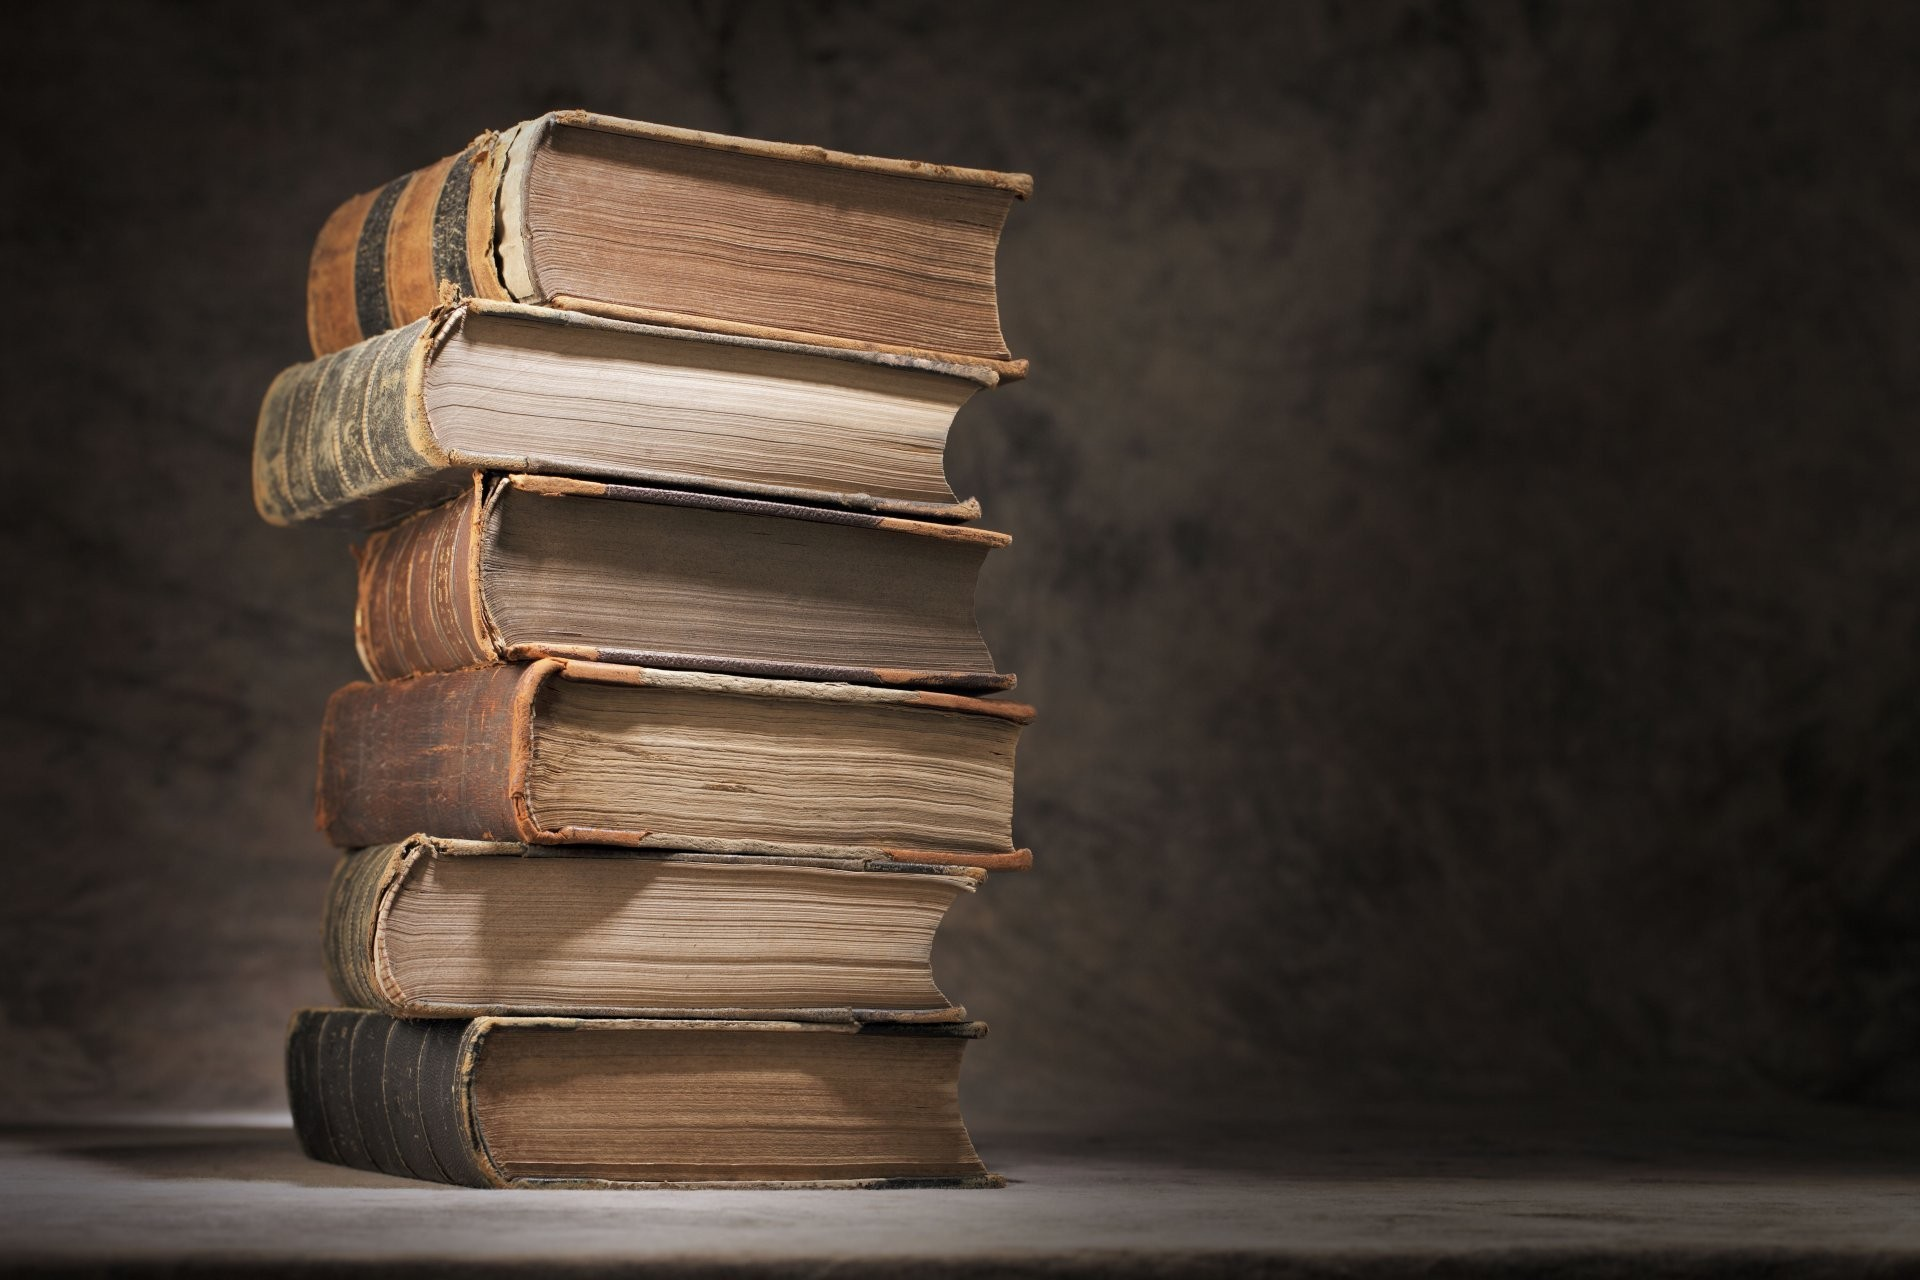
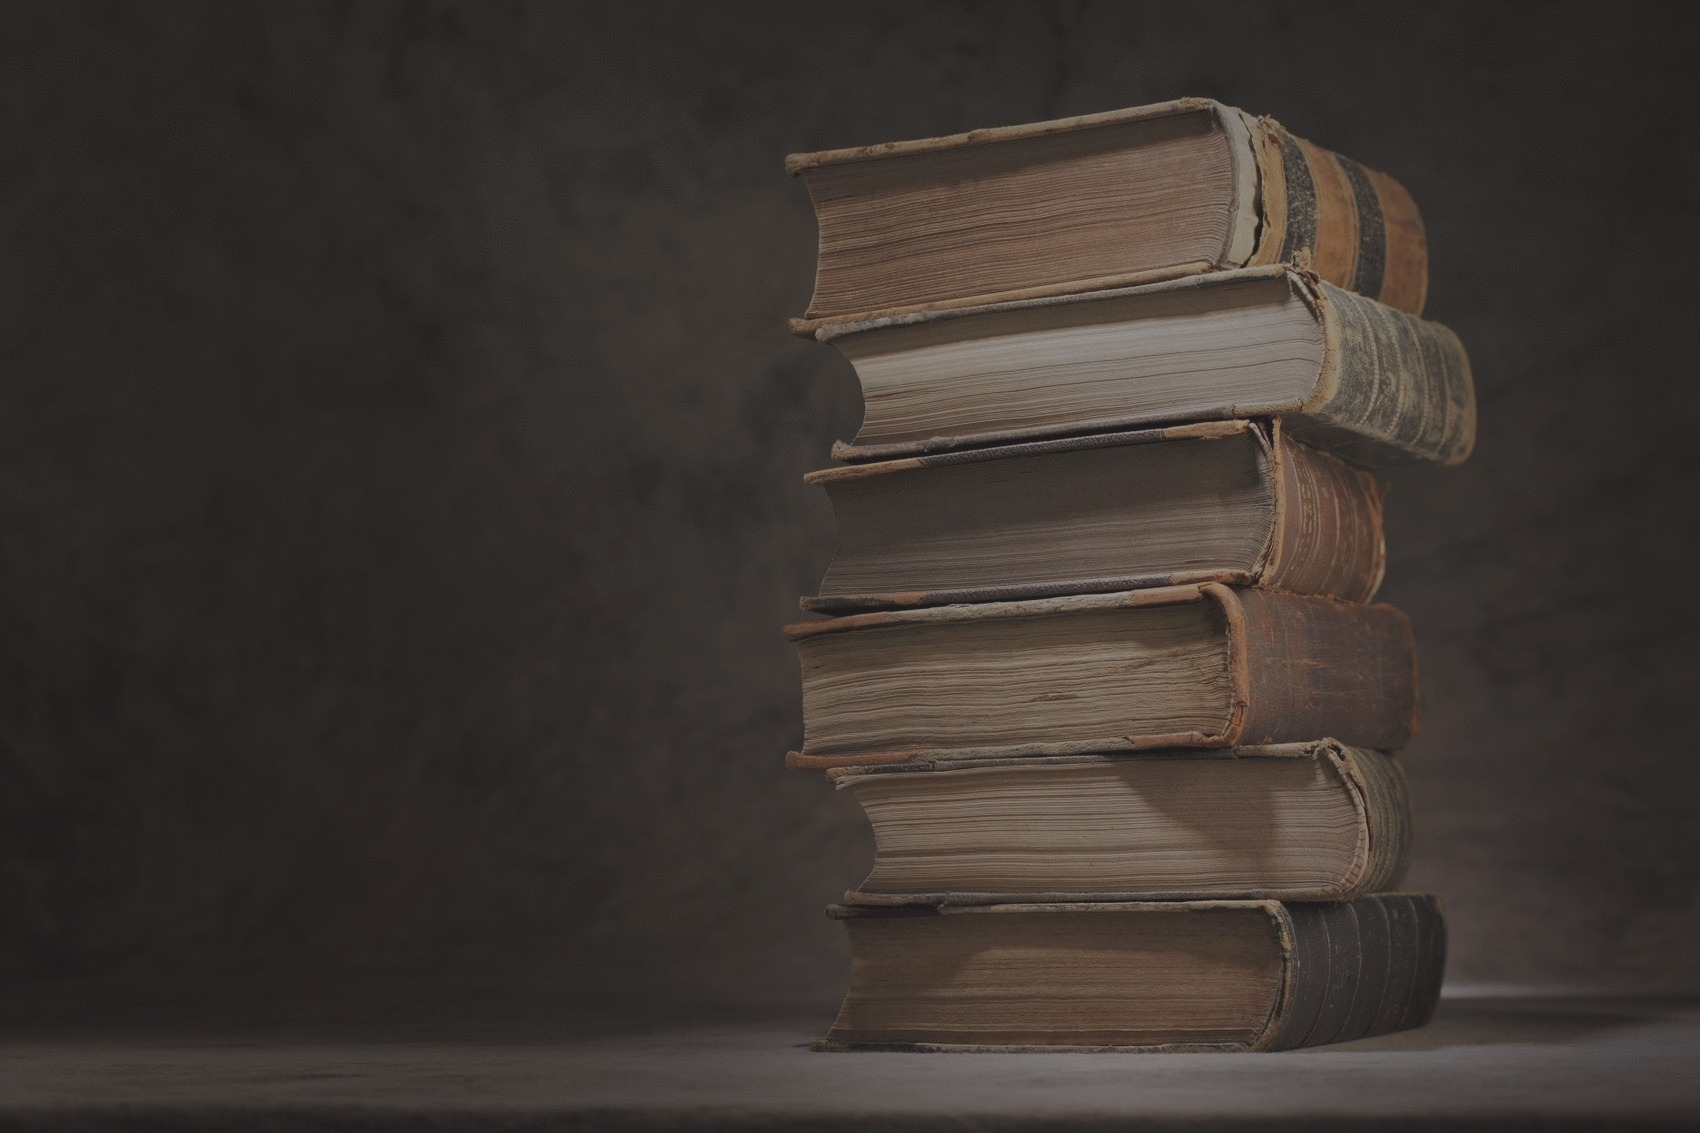
Sebo

diff --git a/agatae/src/components/Navbar/RegisterPage.jsx b/agatae/src/components/Navbar/RegisterPage.jsx
@@ -1,68 +1,94 @@
 import React, { Component} from 'react';
-import {FormGroup, Button} from 'reactstrap';
+import { Button} from 'reactstrap';
 import InputGroup from 'react-bootstrap/InputGroup';
-import { Form } from 'react-bootstrap/Form';
-import { FormControl, FormLabel} from 'react-bootstrap';
+import {Form} from 'react-bootstrap';
 import { Container, Row, Col } from 'reactstrap';
 import { Nav, NavItem, Dropdown, DropdownToggle, DropdownMenu, NavLink } from 'reactstrap';
 import DropdownButton from 'react-bootstrap/DropdownButton';
-import {Messages} from '../../Messages';
+import {Messages} from '../Messages';
+import logo from '../../assets/images/New Project4.png';
+import './Navbar/RegisterPage.css';
 
-class RegisterPage extends Component {
+class App extends Component {
    state = {
       messages: Messages,
     }
   render() {
     const {messages} = this.state;
     return (
-      <Container className="">
-  <Row className="justify-content-md-center">
-<Col></Col>
-  <Col><h1>{messages.CreateAccount}</h1></Col>
- <Col></Col>
+      <Container className='Reg_Page_Bg'>
+ <Row>
+ <Col md={8}></Col>
+ <Col md={4}><img src={logo} width="230" height="60" alt=""/></Col>
+ </Row>
+ <Row >
+  <Col md={8}></Col>
+  <Col md={4}><h1>{messages.CreateAccount}</h1></Col>
   </Row>
-  <Row className="justify-content-md-center">
-<h1>{messages.title}</h1>
+ 
+    <Row>
+     <Col md={8}></Col>
+<p>{messages.title}</p>
   </Row>
-  <Row className="justify-content-md-center">
-<InputGroup className="mb-4">
-    <InputGroup.Prepend>
-    </InputGroup.Prepend>
-      <InputGroup.Text id="inputGroup-sizing-default">Full Name</InputGroup.Text>
-    <FormControl aria-label="default" aria-describedby="inputGroup-sizing-default" />
-  </InputGroup>
+<Row >
+<Col md={7}></Col>
+<Col md={5}>
+<Form>
+    <Form.Group controlId="formBasicName">
+      <Form.Label>Your Name</Form.Label>
+      <Form.Control type="text" placeholder="Enter name" />
+    </Form.Group>
 
 
-  <InputGroup className="mb-4">
-    <InputGroup.Prepend>
-      <InputGroup.Text id="email-address">Email adress</InputGroup.Text>
-    </InputGroup.Prepend>
-    <FormControl aria-label="default" aria-describedby="email-address" />
-  </InputGroup>
+  <Form.Group controlId="formBasicSurname">
+      <Form.Label>Surname</Form.Label>
+      <Form.Control type="text" placeholder="Enter surname" />
+    </Form.Group>
+      <Form.Group controlId="formBasicEmail">
+      <Form.Label>Email</Form.Label>
+      <Form.Control type="email" placeholder="Enter email" />
+    </Form.Group>
+    
 
-  <InputGroup className="mb-4">
-    <InputGroup.Prepend>
-      <InputGroup.Text id="inputGroup-sizing-default">tel:</InputGroup.Text>
-    </InputGroup.Prepend>
-    <FormControl aria-label="default" aria-describedby="inputGroup-sizing-default" />
-  </InputGroup>
+  <Form.Group controlId="formBasicTel">
+    <Form.Label>Phone</Form.Label>
+    <Form.Control type="text" placeholder="Enter tel" />
+    <Form.Text className="text-muted">
+      example: +37499.....
+    </Form.Text>
+  </Form.Group>
 
-  <InputGroup className="mb-4">
-    <InputGroup.Prepend>
-      <InputGroup.Text id="create-password">Create password</InputGroup.Text>
-    </InputGroup.Prepend>
-    <FormControl aria-label="default" aria-describedby="create-password" />
-  </InputGroup>
+  <Form.Group controlId="formBasicCreatePassword">
+    <Form.Label>Create Password</Form.Label>
+    <Form.Control type="password" placeholder="Enter Password" />
+  <Form.Text className="text-muted">
+      Password most by 9 letters or more. 
+    </Form.Text>
+  </Form.Group>
 
-  <InputGroup className="mb-4">
-    <InputGroup.Prepend>
-      <InputGroup.Text id="repeat-password">Repeat password</InputGroup.Text>
-    </InputGroup.Prepend>
-    <FormControl aria-label="default" aria-describedby="repeat-password" />
-  </InputGroup>
+  <Form.Group controlId="formRepeatPassword">
+    <Form.Label>Repeat Password</Form.Label>
+    <Form.Control type="password" placeholder="" />
+  </Form.Group>
+
+  <Form.Group controlId="formBasicChecbox">
+    <Form.Check type="checkbox" label="I'm a member" />
+  </Form.Group>
+  <Form.Group controlId="formBasicChecbox">
+    <Form.Check type="checkbox" label="I'm a teacher" />
+  </Form.Group>
+
+  <div>
+  <Button variant="info" type="submit" ClassName="loginBtn" size="lg" block>
+    Create Account
+  </Button>
+  </div>
+
+</Form>
+</Col>
 </Row>
 </Container>
     );
   }
 }
-export {RegisterPage};
+export default App;

diff --git a/agatae/src/components/Navbar/RegisterPage.css b/agatae/src/components/Navbar/RegisterPage.css
@@ -1,88 +1,11 @@
-import React, { Component } from 'react';
-import {FormGroup, Input, Button} from 'reactstrap';
-import InputGroup from 'react-bootstrap/InputGroup';
-import Form from 'react-bootstrap/Form';
-import { Container, Row, Col,} from 'reactstrap';
-import { FormControl, FormLabel} from 'react-bootstrap';
-import {Messages} from '../Messages.js';
-import logo from '../../assets/images/New Project4.png';
 
-
-class Registerpage extends Component {
-	state = {
-      messages: Messages,
-    }
-  render() {
-  	 const {messages} = this.state;
-    return (
- <Container className='Reg_Page_Bg'>
- <Row className="justify-content-md-center">
- <img src={logo} width="230" height="60" alt=""/>
- </Row>
- <Row className="justify-content-md-center">
-<Col></Col>
-  <Col><h1>{messages.CreateAccount}</h1></Col>
- <Col></Col>
-  </Row>
- 
-    <Row className="justify-content-md-center">
-     <Col></Col>
-<p>{messages.title}</p>
-<Col></Col>
-  </Row>
-<Row className="justify-content-md-center">
-<Col md={2}></Col>
-<Col md={8}>
-<Form>
-		<Form.Group controlId="formBasicName">
-			<Form.Label>Your Name</Form.Label>
-			<Form.Control type="text" placeholder="Enter name" />
-		</Form.Group>
-
-
-  <Form.Group controlId="formBasicSurname">
-			<Form.Label>Surname</Form.Label>
-			<Form.Control type="text" placeholder="Enter surname" />
-		</Form.Group>
-
-  <Form.Group controlId="formBasicTel">
-    <Form.Label>Phone</Form.Label>
-    <Form.Control type="text" placeholder="Enter tel" />
-    <Form.Text className="text-muted">
-      example: +37499.....
-    </Form.Text>
-  </Form.Group>
-
-  <Form.Group controlId="formBasicCreatePassword">
-    <Form.Label>Create Password</Form.Label>
-    <Form.Control type="password" placeholder="Enter Password" />
-  <Form.Text className="text-muted">
-      Password most by 9 letters or more. 
-    </Form.Text>
-  </Form.Group>
-
-  <Form.Group controlId="formRepeatPassword">
-    <Form.Label>Repeat Password</Form.Label>
-    <Form.Control type="password" placeholder="" />
-  </Form.Group>
-
-  <Form.Group controlId="formBasicChecbox">
-    <Form.Check type="checkbox" label="Remember me" />
-  </Form.Group>
-
-  <div>
-  <Button variant="info" type="submit" ClassName="loginBtn" size="lg" block>
-    Create Account
-  </Button>
-  </div>
-
-</Form>
-</Col>
-<Col md={2}></Col>
-</Row>
-</Container>
-    );
-  }
+body{
+   background-image: url(../../../assets/images/Books3.jpg);
+   color:#f2f2f2;
+   background-size: cover;
 }
 
-export {Registerpage};
+
+  .text-muted{
+    color:#f2f2f2 !important;
+  }

diff --git a/agatae/src/components/Navbar/Header.jsx b/agatae/src/components/Navbar/Header.jsx
@@ -11,13 +11,11 @@ import './Navbar/RegisterPage.css';
 
 
 
-class App extends Component{
-  state = {
-      messages: Messages,
-    }
+class Header extends Component{
+	
 
 
-   render() {
+	 render() {
     const {messages} = this.state;
     return (
     <Container>
@@ -38,4 +36,4 @@ class App extends Component{
    );
   }
 }
-export default App;
+export default Header;

diff --git a/agatae/src/components/Navbar/SignUp.jsx b/agatae/src/components/Navbar/SignUp.jsx
@@ -14,15 +14,8 @@ import {
 class SignUp extends Component {
   render() {
     return (
-
-     <ButtonToolbar>
-        <Button
-          variant="dark"
-          onClick={() => this.setState({ modalShow: true })}
-        >
-          Register
-        </Button>
-      </ButtonToolbar>
+    <div></div> 
+    
     );
   }
 }
